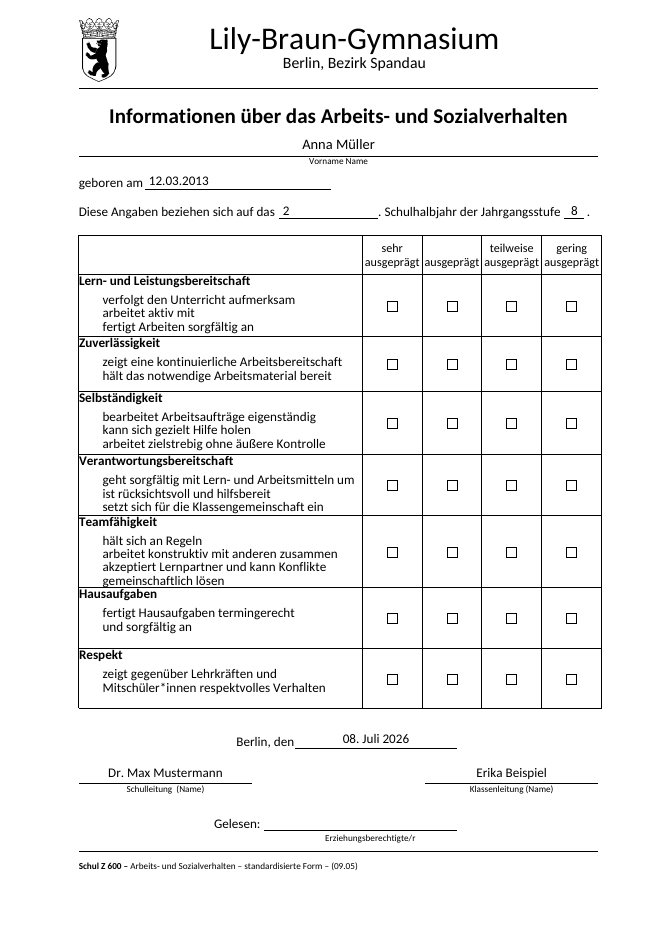
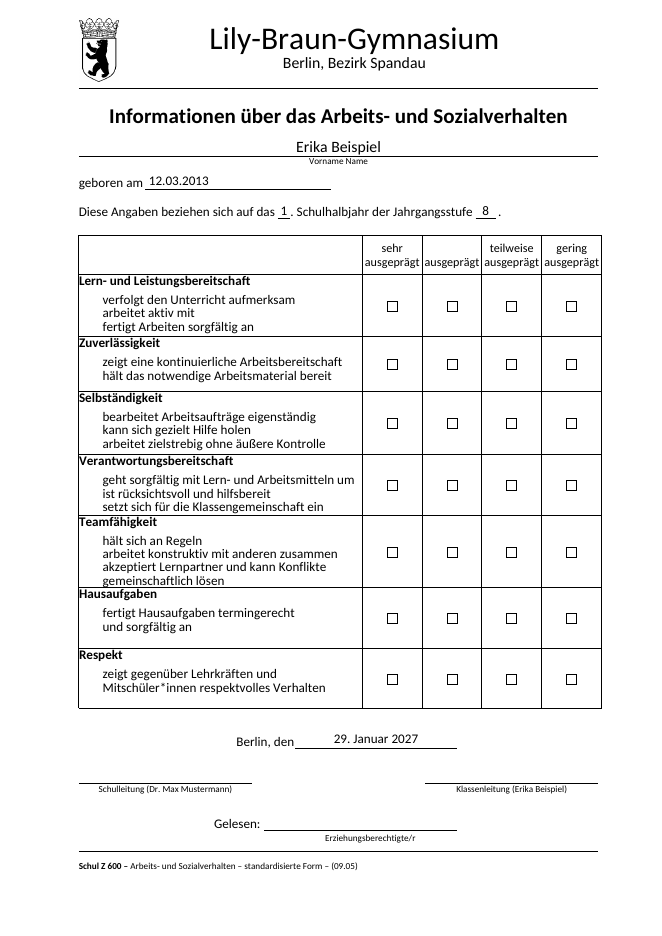
ASV-Generierer: Halbjahres- und Stufenlinie in der PDF kurz wie im Vordruck, Ziffern mittig; Vorschaubilder erneuert
Claude-Session: https://claude.ai/code/session_01AFWTRM9USoaV1VDZxTfeMZ

diff --git a/asv/pdf.js b/asv/pdf.js
@@ -86,14 +86,17 @@
             text(p, st.birth || '', 134, 157.5, 10, reg);
             line(p, 130.7, 298.0, 170.6);
             // Halbjahr und Stufe
+            // Wie im Vordruck: kurze Linie um die Ziffer, der Satz läuft direkt weiter
             const w1 = text(p, 'Diese Angaben beziehen sich auf das ', L, 185.4, 10, reg);
-            text(p, String(info.half || ''), 295.75, 184.0, 10, reg, { center: true });
-            line(p, 251.4, 340.1, 196.6);
-            text(p, '. Schulhalbjahr der Jahrgangsstufe', 340.4, 185.4, 10, reg);
-            text(p, String(info.stufe || ''), 517, 184.0, 10, reg, { center: true });
-            line(p, 508, 526, 196.6);
-            text(p, '.', 528.1, 185.4, 10, reg);
-            void w1;
+            const xa = L + w1, LW = 11;
+            line(p, xa, xa + LW, 196.6);
+            text(p, String(info.half || ''), xa + LW / 2, 184.0, 10, reg, { center: true });
+            const x2 = xa + LW + 0.3;
+            const w2 = text(p, '. Schulhalbjahr der Jahrgangsstufe ', x2, 185.4, 10, reg);
+            const xb = x2 + w2, SW = 18;
+            line(p, xb, xb + SW, 196.6);
+            text(p, String(info.stufe || ''), xb + SW / 2, 184.0, 10, reg, { center: true });
+            text(p, '.', xb + SW + 2.1, 185.4, 10, reg);
             // Tabelle
             const T0 = 211.6, TB = ROWS[ROWS.length - 1];
             ROWS.concat([T0]).forEach(y => line(p, TX0, TX1, y));
